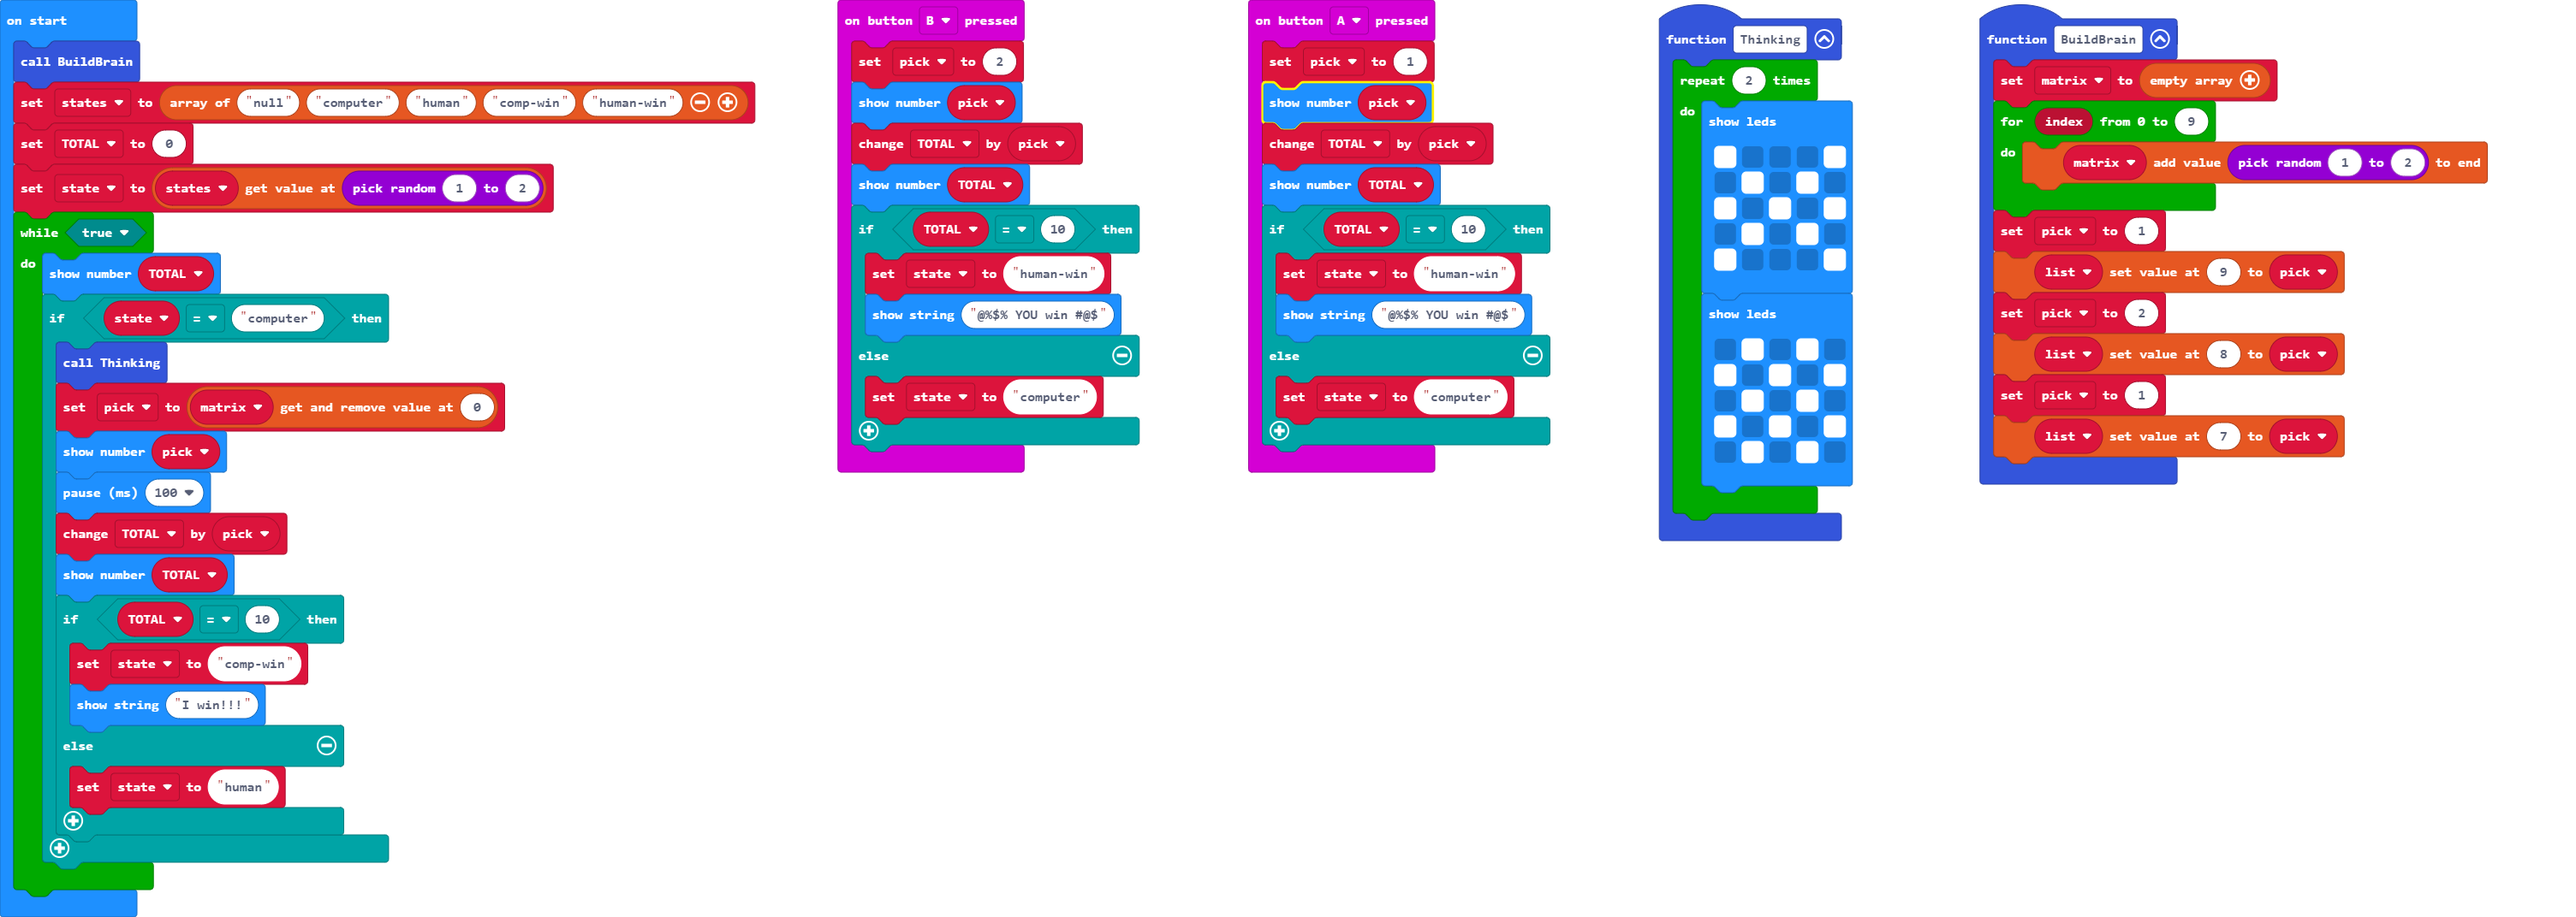
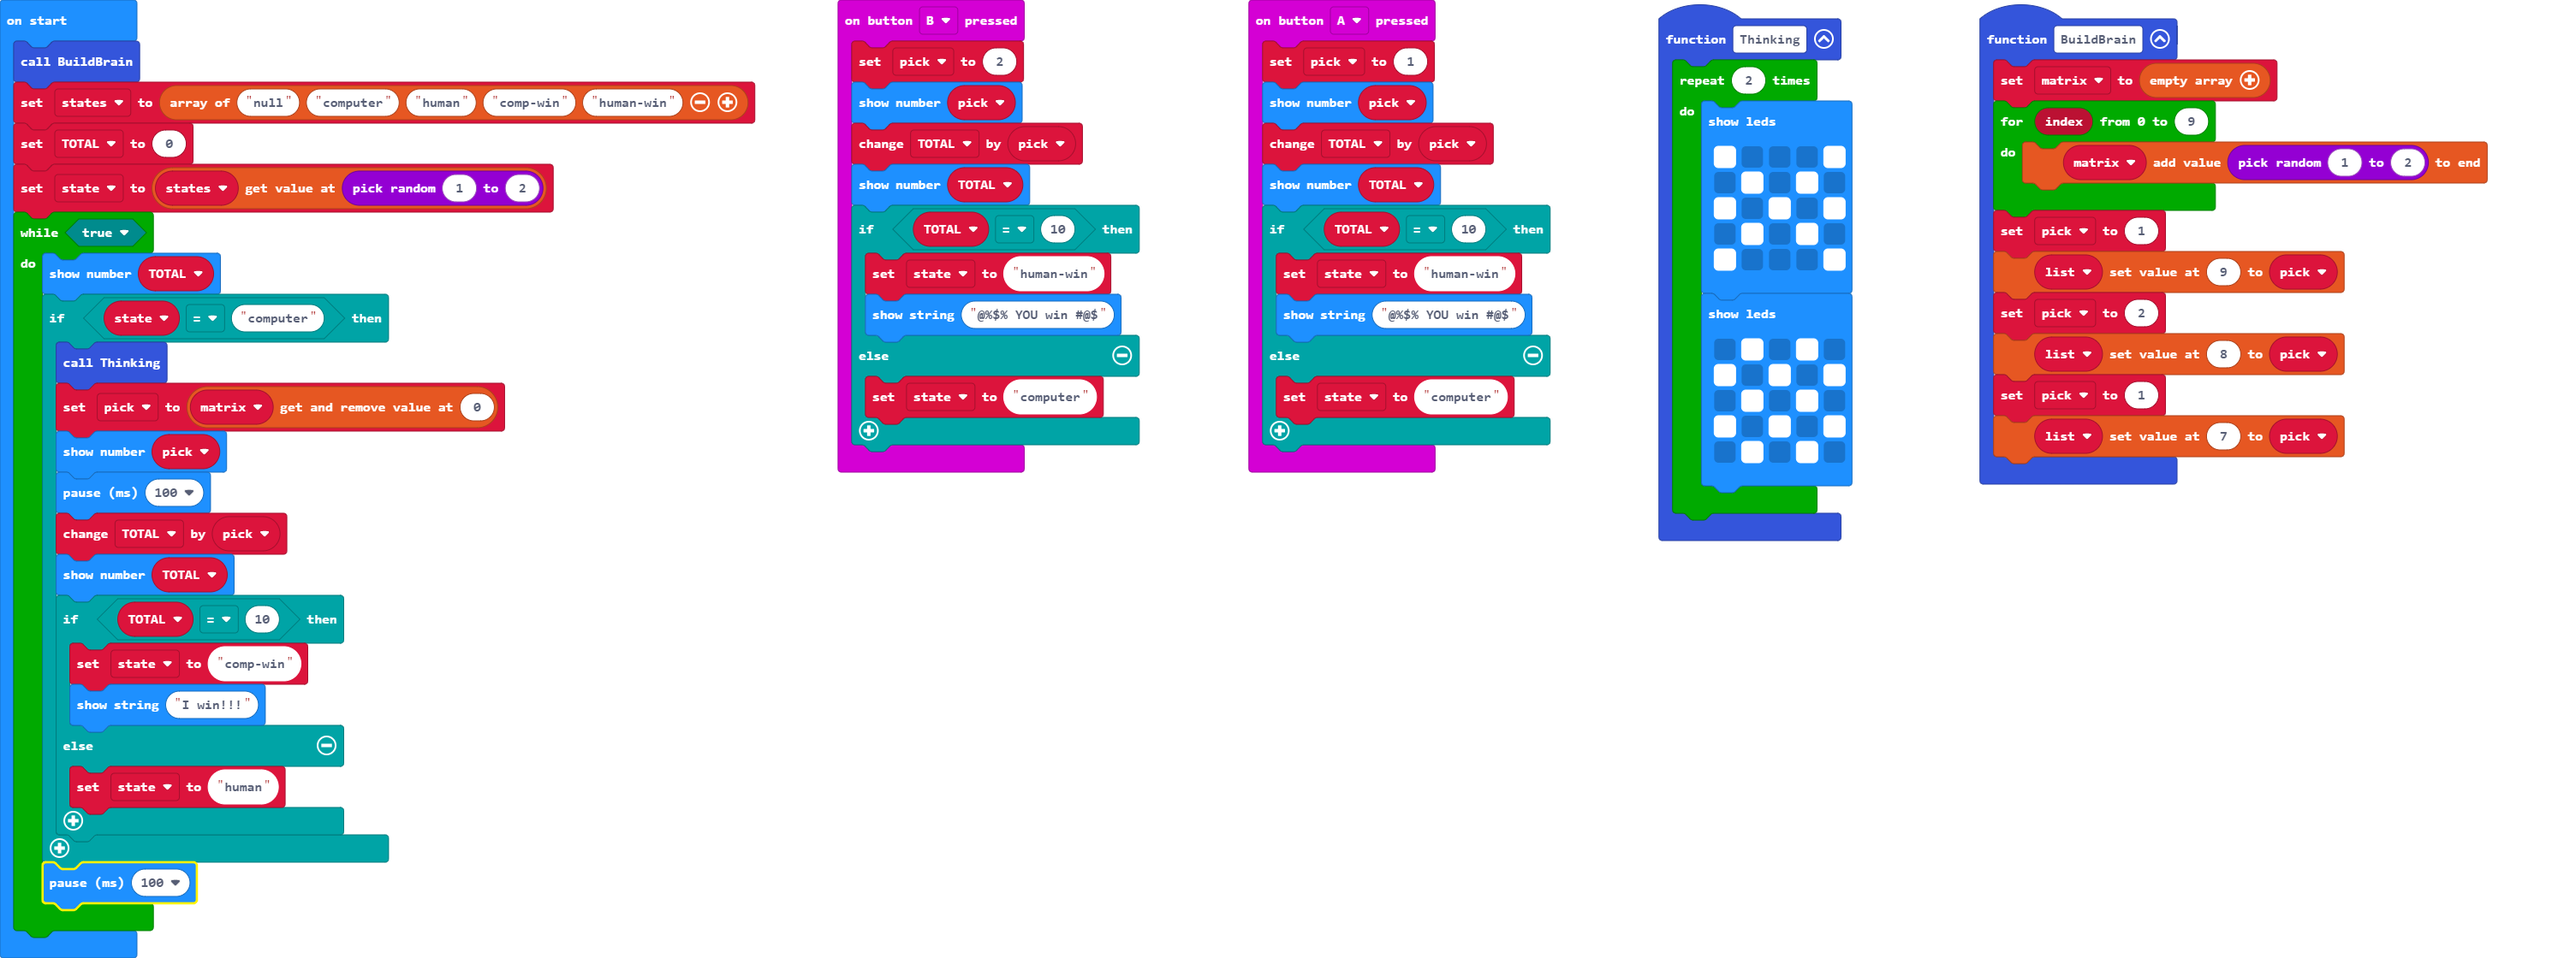
Update main.blocks, main.ts

Changed region(s): [[0.0, 0.0, 0.6248, 0.9543], [0.7498, 0.0, 0.9684, 0.5541], [0.6248, 0.0, 0.7185, 0.6157]]

diff --git a/main.ts b/main.ts
@@ -77,4 +77,5 @@ while (true) {
             state = "human"
         }
     }
+    basic.pause(100)
 }
